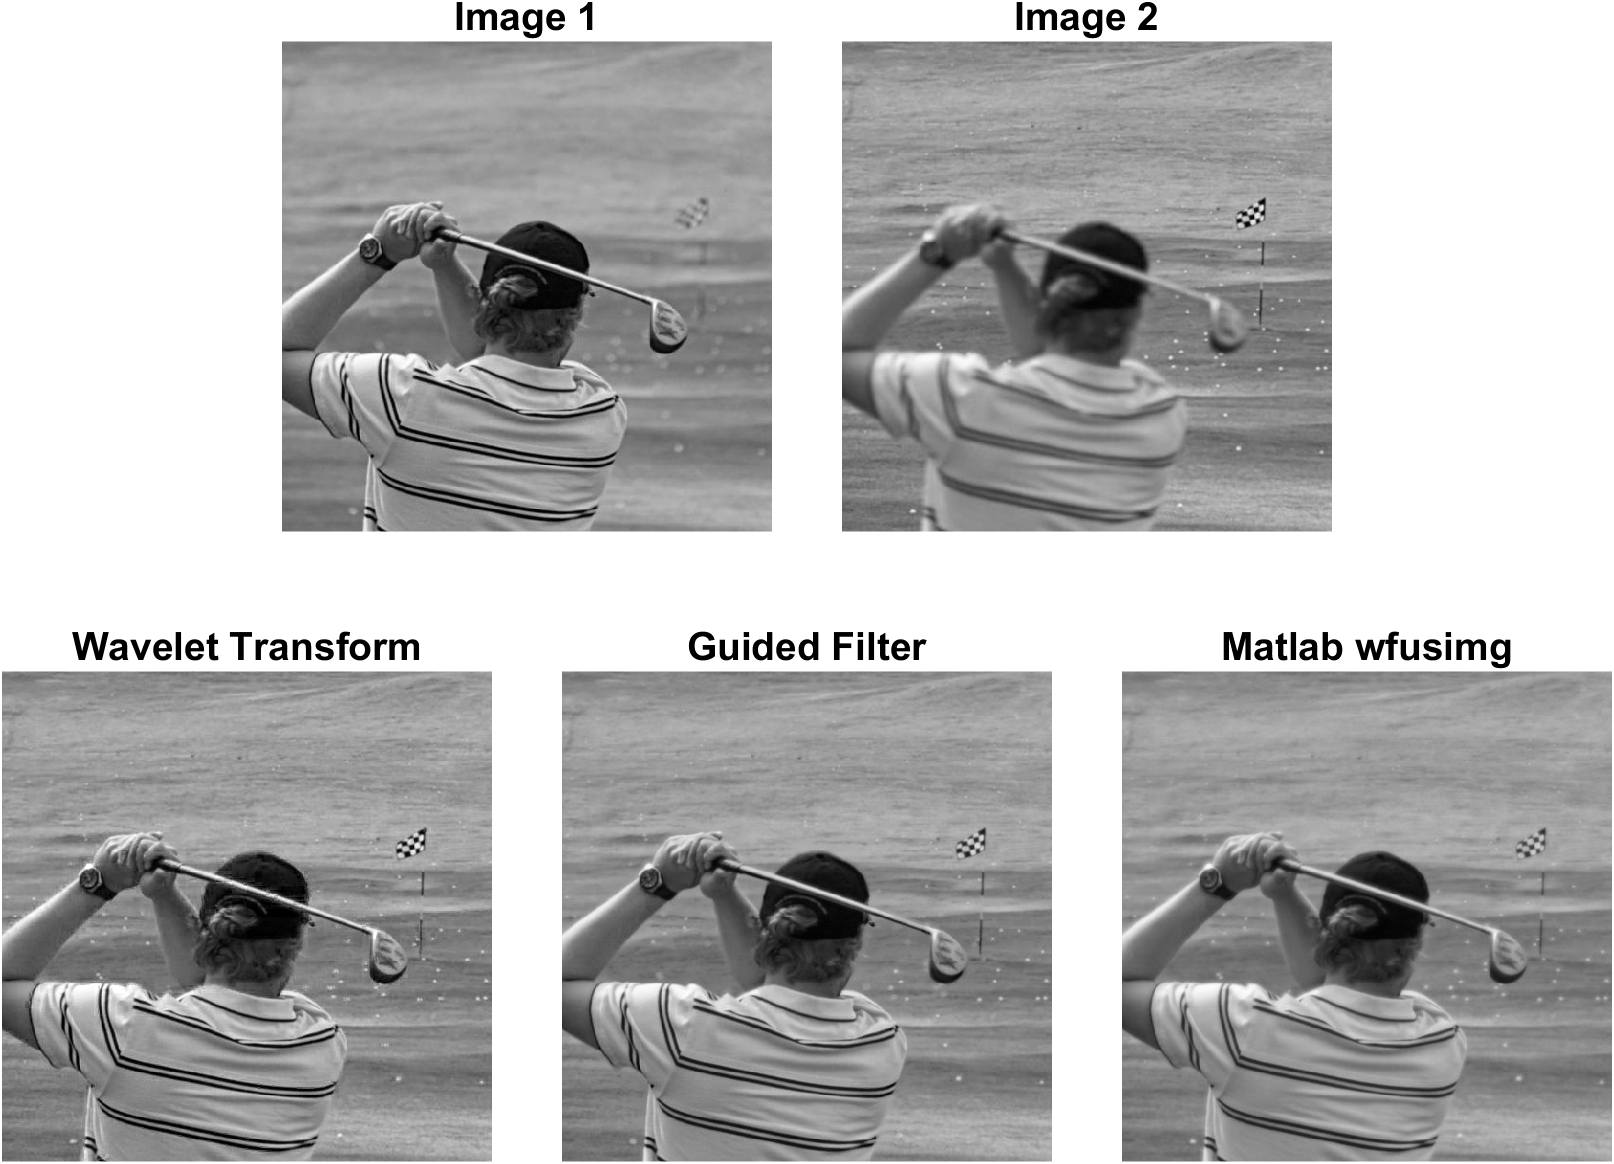
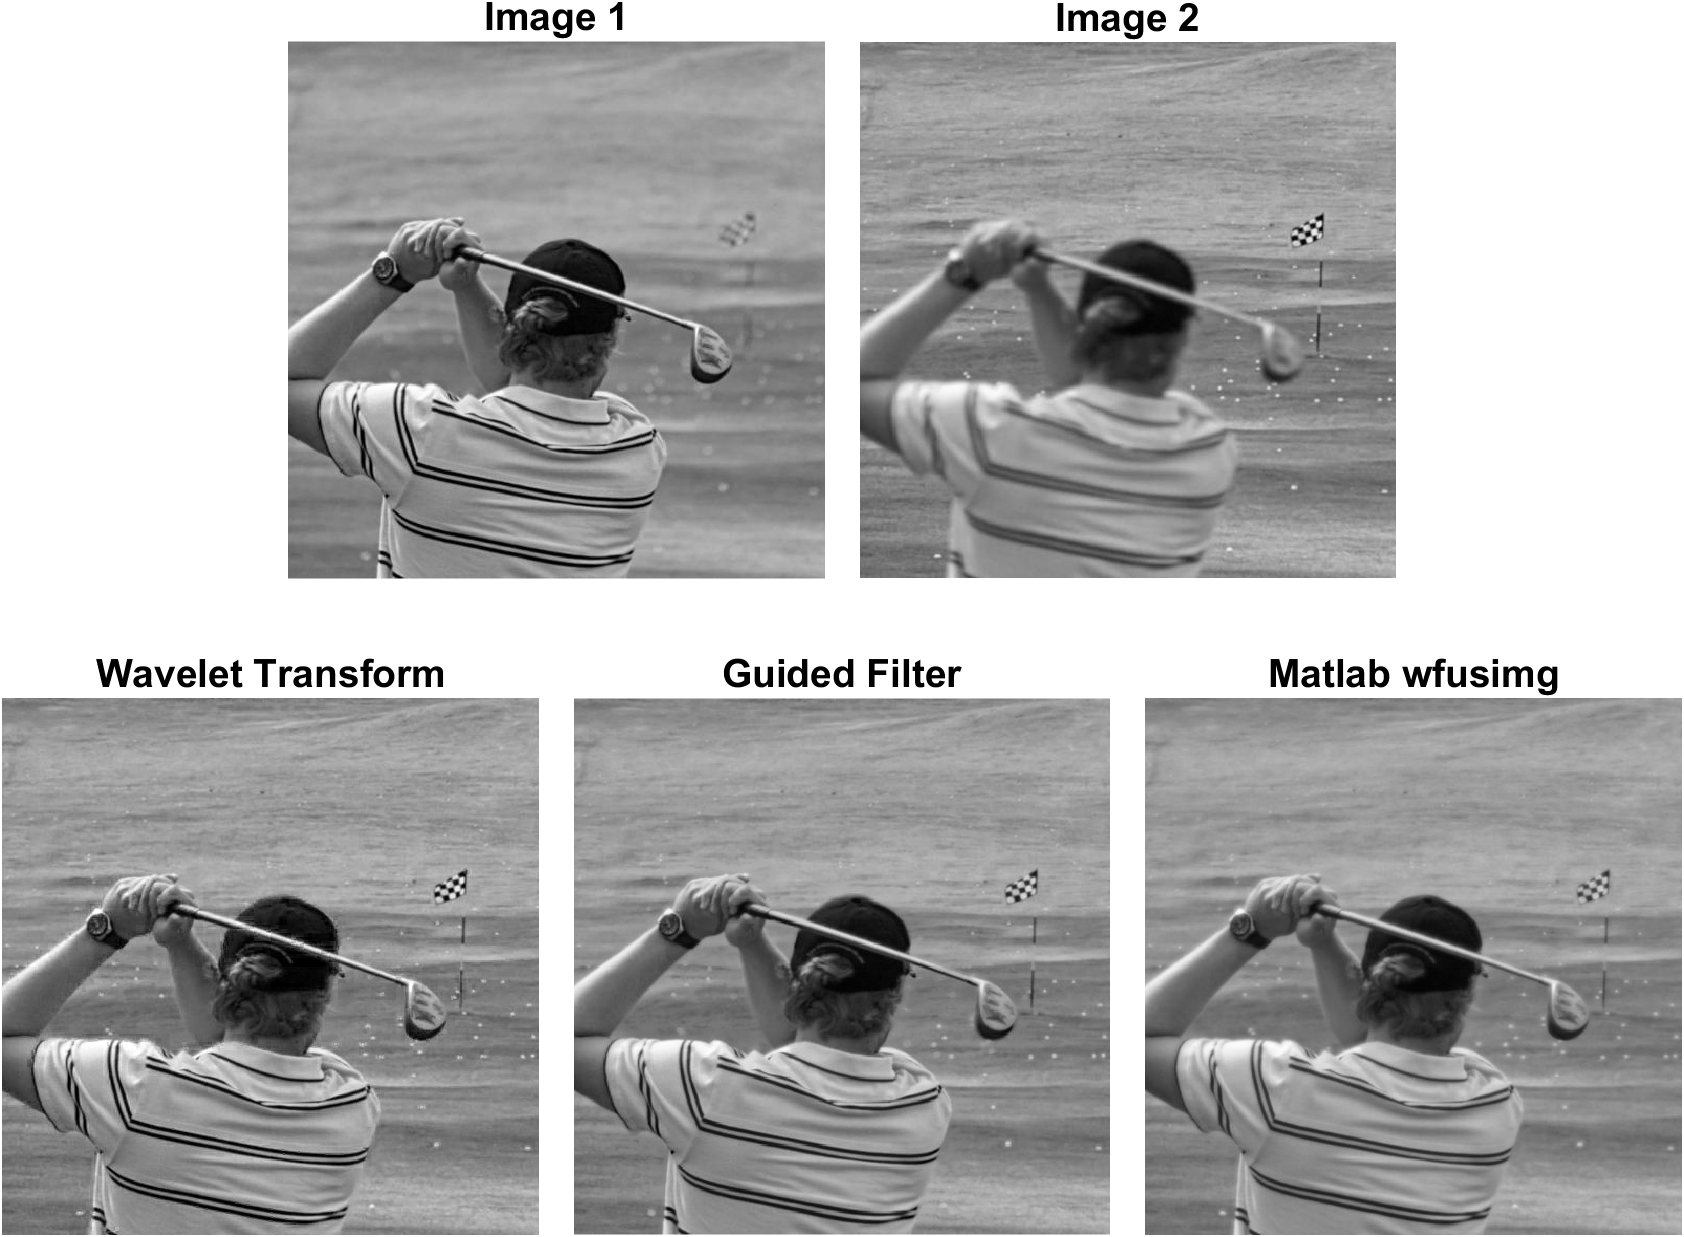
compacted subplots fused sets

diff --git a/src/display_fused_image_sets.m b/src/display_fused_image_sets.m
@@ -36,24 +36,26 @@ for i = 1:1
     set(0,'defaultfigurecolor','w') %sets background all following figures to white instead of grey
     %figure('Position', [80 80 1200 600]);
     figure;
+    %uses ' Controllable tight subplot ' add-on for thighter subplots
+    margins = [0.00,0.02];
 
-    subplot_tight(2, 3, 1.5);
+    subplot_tight(2, 3, 1.5, margins);
     imshow(image_a);
     title('Image 1');
 
-    subplot_tight(2, 3, 2.5);
+    subplot_tight(2, 3, 2.5, margins);
     imshow(image_b);
     title('Image 2');
 
-    subplot_tight(2, 3, 4);
+    subplot_tight(2, 3, 4, margins);
     imshow(im2double(fused_wt));
     title('Wavelet Transform');
 
-    subplot_tight(2, 3, 5);
+    subplot_tight(2, 3, 5, margins);
     imshow(fused_gf);
     title('Guided Filter');
 
-    subplot_tight(2, 3, 6);
+    subplot_tight(2, 3, 6, margins);
     imshow(fused_wfusimg);
     title('Matlab wfusimg');
     
